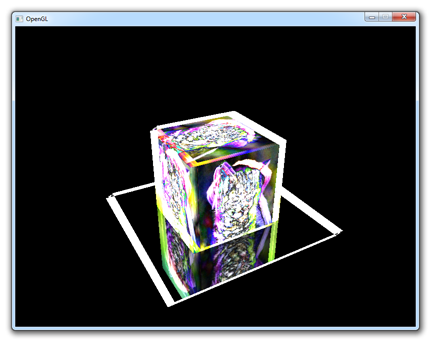
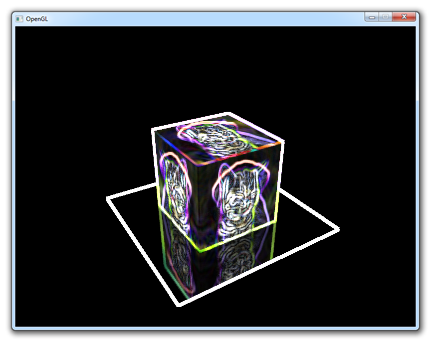
Fixes Sobel operator fragment shader in chapter 6.

Changed region(s): [[0.2407, 0.3226, 0.7824, 0.9091]]

diff --git a/content/articles-en/framebuffers.md b/content/articles-en/framebuffers.md
@@ -233,12 +233,16 @@ The Sobel operator is often used in edge detection algorithms, let's find out wh
 
 The fragment shader looks like this:
 
-	vec4 s1 = texture(texFramebuffer, Texcoord - 1.0 / 300.0 - 1.0 / 200.0);
-	vec4 s2 = texture(texFramebuffer, Texcoord + 1.0 / 300.0 - 1.0 / 200.0);
-	vec4 s3 = texture(texFramebuffer, Texcoord - 1.0 / 300.0 + 1.0 / 200.0);
-	vec4 s4 = texture(texFramebuffer, Texcoord + 1.0 / 300.0 + 1.0 / 200.0);
-	vec4 sx = 4.0 * ((s4 + s3) - (s2 + s1));
-	vec4 sy = 4.0 * ((s2 + s4) - (s1 + s3));
+	vec4 topLeft     = texture(texFramebuffer, vec2(Texcoord.x - 1.0 / 300.0, Texcoord.y + 1.0 / 200.0));
+	vec4 topRight    = texture(texFramebuffer, vec2(Texcoord.x + 1.0 / 300.0, Texcoord.y + 1.0 / 200.0));
+	vec4 bottomLeft  = texture(texFramebuffer, vec2(Texcoord.x - 1.0 / 300.0, Texcoord.y - 1.0 / 200.0));
+	vec4 bottomRight = texture(texFramebuffer, vec2(Texcoord.x + 1.0 / 300.0, Texcoord.y - 1.0 / 200.0));
+	vec4 top         = texture(texFramebuffer, vec2(Texcoord.x, Texcoord.y + 1.0 / 200.0));
+	vec4 bottom      = texture(texFramebuffer, vec2(Texcoord.x, Texcoord.y - 1.0 / 200.0));
+	vec4 left        = texture(texFramebuffer, vec2(Texcoord.x - 1.0 / 300.0, Texcoord.y));
+	vec4 right       = texture(texFramebuffer, vec2(Texcoord.x + 1.0 / 300.0, Texcoord.y));
+	vec4 sx = -topLeft - 2 * left - bottomLeft + topRight     + 2 * right  + bottomRight;
+	vec4 sy = -topLeft - 2 * top  - topRight   + bottomLeft   + 2 * bottom + bottomRight;
 	vec4 sobel = sqrt(sx * sx + sy * sy);
 	outColor = sobel;
 
